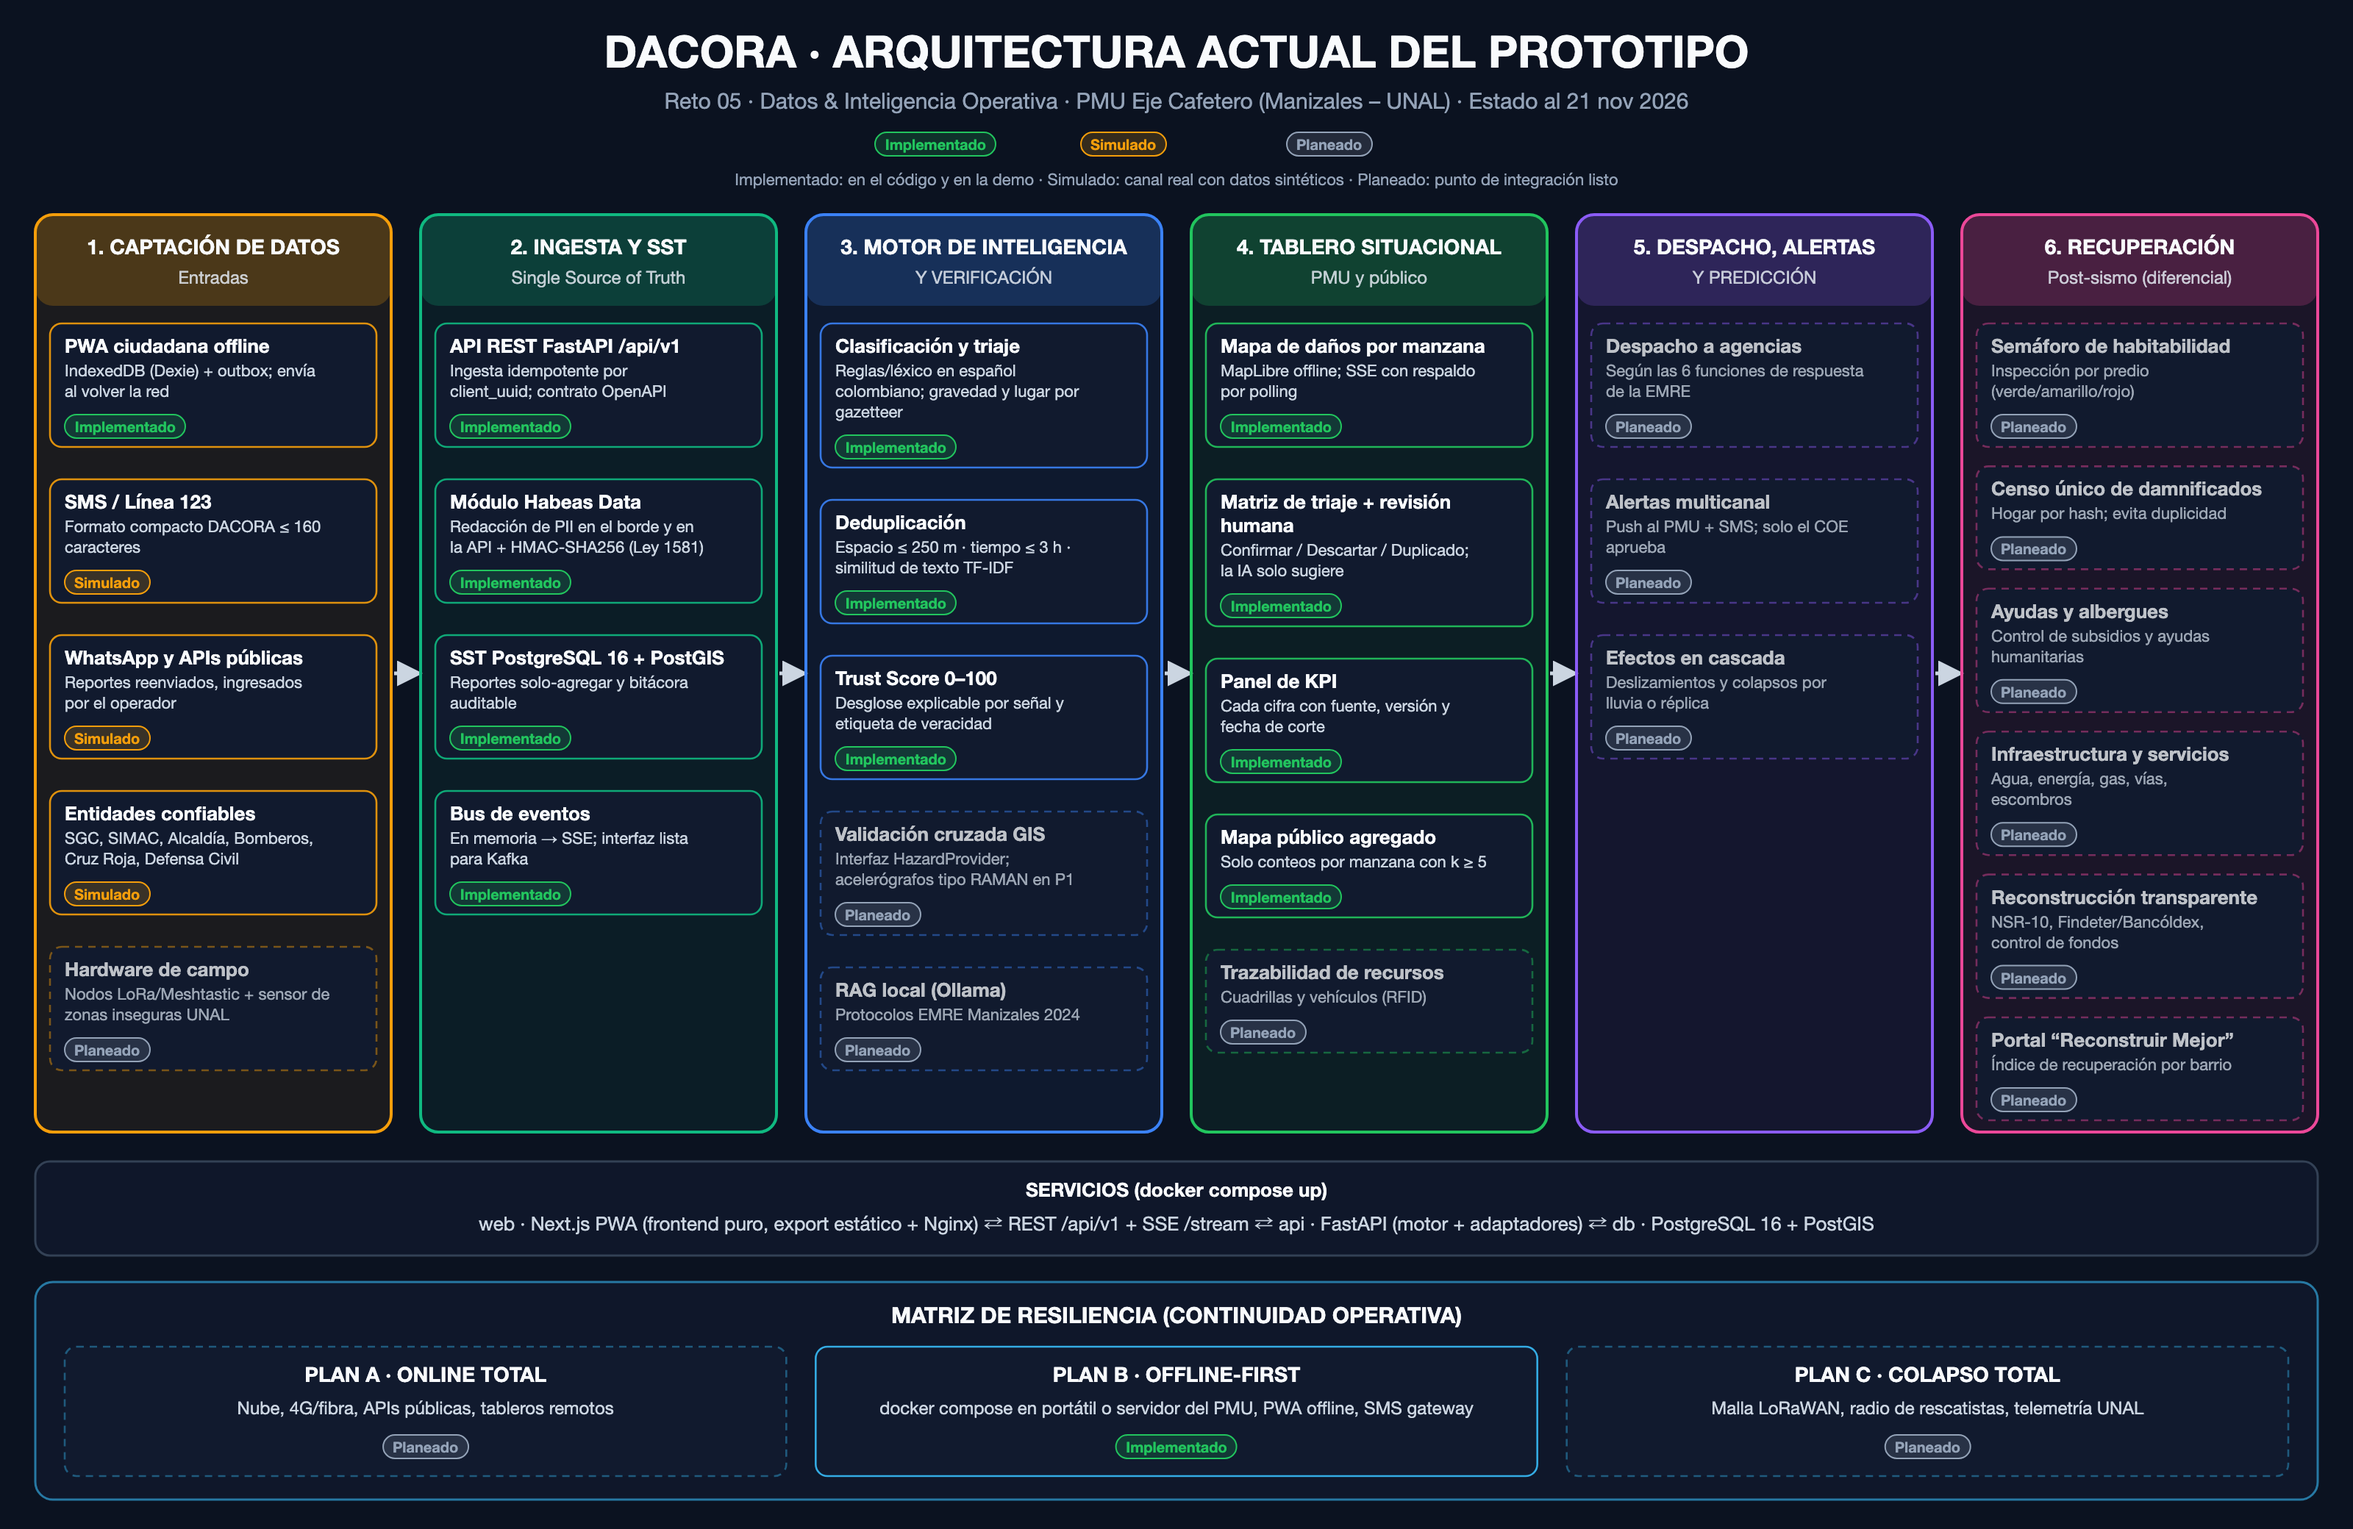
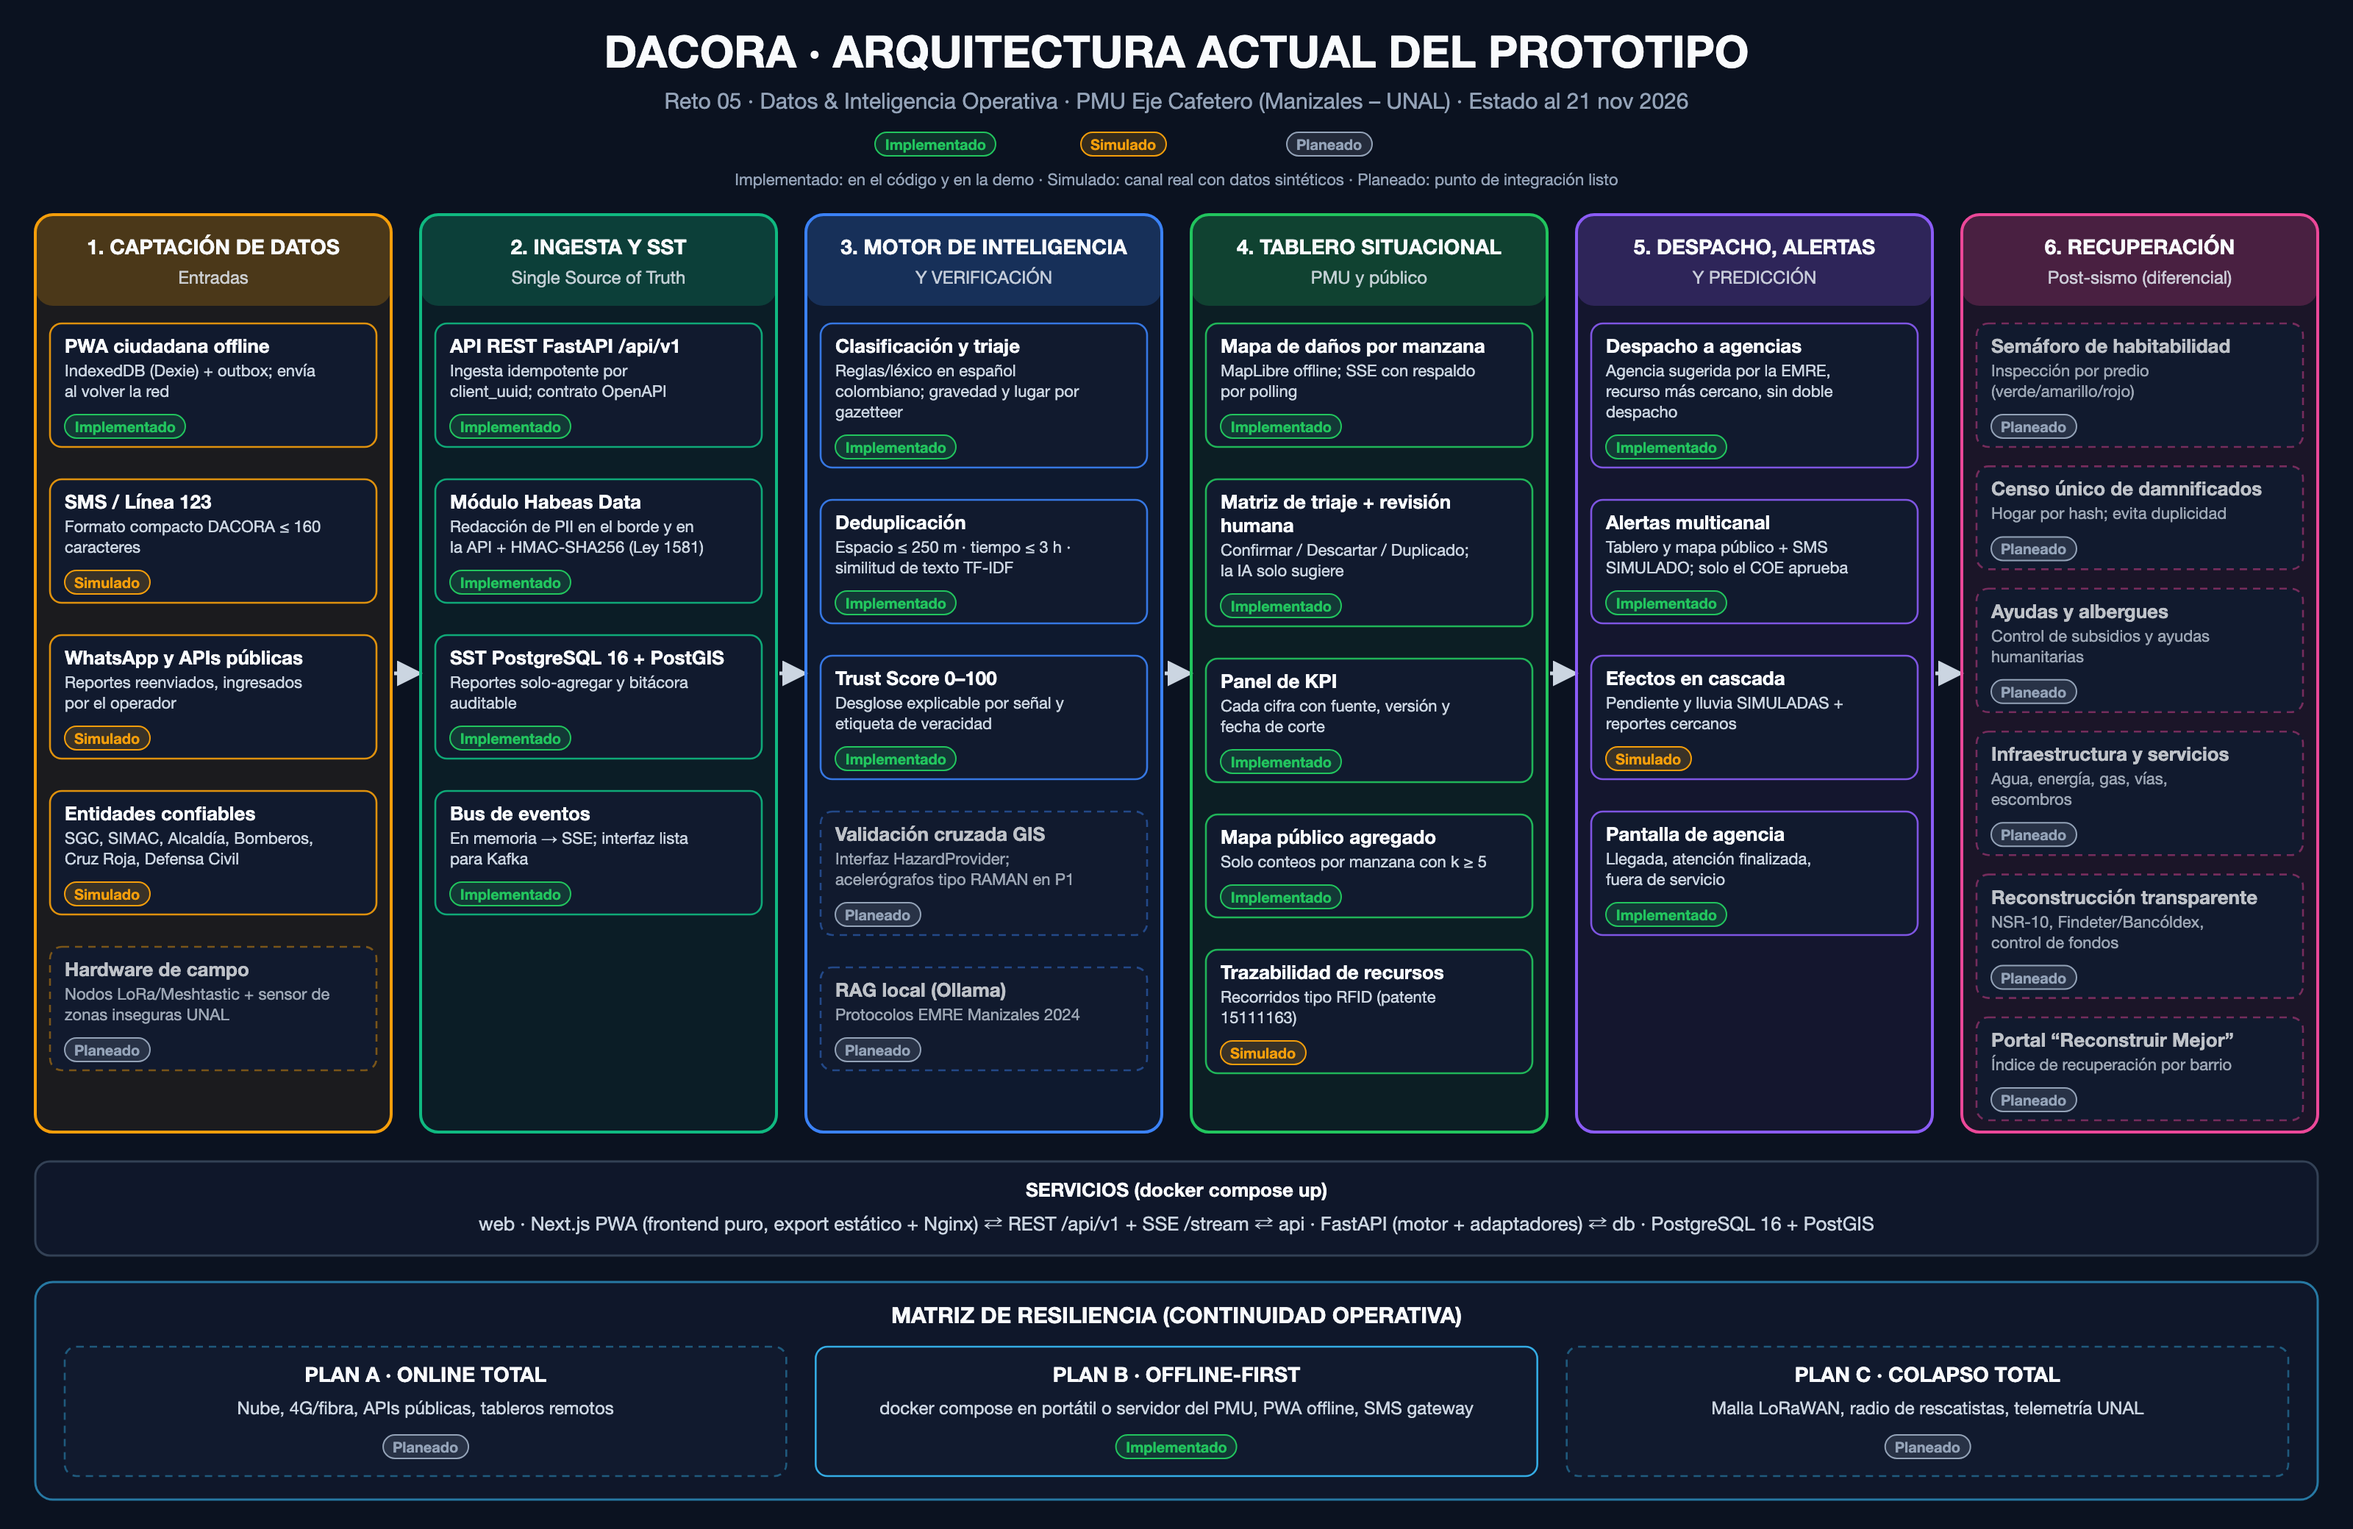
docs: mark dispatch, alerts and cascade as built in architecture diagram

Changed region(s): [[0.6562, 0.2188, 0.8125, 0.625], [0.5, 0.625, 0.625, 0.7188]]

diff --git a/scripts/generate_architecture_diagram.py b/scripts/generate_architecture_diagram.py
@@ -1,0 +1,305 @@
+"""Genera docs/arquitectura_actual.svg: arquitectura actual de Dacora con el estado de cada pieza.
+
+Uso:
+    python scripts/generate_architecture_diagram.py docs/arquitectura_actual.svg
+    # PNG (2x) con Chrome sin interfaz:
+    "/Applications/Google Chrome.app/Contents/MacOS/Google Chrome" --headless \
+      --hide-scrollbars --force-device-scale-factor=2 --window-size=1600,1040 \
+      --screenshot=docs/arquitectura_actual.png "file://$PWD/docs/arquitectura_actual.svg"
+"""
+
+import sys
+import textwrap
+from html import escape
+
+OUT = sys.argv[1] if len(sys.argv) > 1 else "docs/arquitectura_actual.svg"
+W, H = 1600, 1040
+
+IMPL, SIM, PLAN = "impl", "sim", "plan"
+BADGE = {
+    IMPL: ("Implementado", "#22c55e"),
+    SIM: ("Simulado", "#f59e0b"),
+    PLAN: ("Planeado", "#94a3b8"),
+}
+
+COLUMNS = [
+    (
+        "1. CAPTACIÓN DE DATOS",
+        "Entradas",
+        "#f59e0b",
+        [
+            ("PWA ciudadana offline", "IndexedDB (Dexie) + outbox; envía al volver la red", IMPL),
+            ("SMS / Línea 123", "Formato compacto DACORA ≤ 160 caracteres", SIM),
+            ("WhatsApp y APIs públicas", "Reportes reenviados, ingresados por el operador", SIM),
+            (
+                "Entidades confiables",
+                "SGC, SIMAC, Alcaldía, Bomberos, Cruz Roja, Defensa Civil",
+                SIM,
+            ),
+            ("Hardware de campo", "Nodos LoRa/Meshtastic + sensor de zonas inseguras UNAL", PLAN),
+        ],
+    ),
+    (
+        "2. INGESTA Y SST",
+        "Single Source of Truth",
+        "#10b981",
+        [
+            (
+                "API REST FastAPI /api/v1",
+                "Ingesta idempotente por client_uuid; contrato OpenAPI",
+                IMPL,
+            ),
+            (
+                "Módulo Habeas Data",
+                "Redacción de PII en el borde y en la API + HMAC-SHA256 (Ley 1581)",
+                IMPL,
+            ),
+            (
+                "SST PostgreSQL 16 + PostGIS",
+                "Reportes solo-agregar y bitácora auditable",
+                IMPL,
+            ),
+            ("Bus de eventos", "En memoria → SSE; interfaz lista para Kafka", IMPL),
+        ],
+    ),
+    (
+        "3. MOTOR DE INTELIGENCIA",
+        "Y VERIFICACIÓN",
+        "#3b82f6",
+        [
+            (
+                "Clasificación y triaje",
+                "Reglas/léxico en español colombiano; gravedad y lugar por gazetteer",
+                IMPL,
+            ),
+            (
+                "Deduplicación",
+                "Espacio ≤ 250 m · tiempo ≤ 3 h · similitud de texto TF-IDF",
+                IMPL,
+            ),
+            ("Trust Score 0–100", "Desglose explicable por señal y etiqueta de veracidad", IMPL),
+            (
+                "Validación cruzada GIS",
+                "Interfaz HazardProvider; acelerógrafos tipo RAMAN en P1",
+                PLAN,
+            ),
+            ("RAG local (Ollama)", "Protocolos EMRE Manizales 2024", PLAN),
+        ],
+    ),
+    (
+        "4. TABLERO SITUACIONAL",
+        "PMU y público",
+        "#22c55e",
+        [
+            ("Mapa de daños por manzana", "MapLibre offline; SSE con respaldo por polling", IMPL),
+            (
+                "Matriz de triaje + revisión humana",
+                "Confirmar / Descartar / Duplicado; la IA solo sugiere",
+                IMPL,
+            ),
+            ("Panel de KPI", "Cada cifra con fuente, versión y fecha de corte", IMPL),
+            ("Mapa público agregado", "Solo conteos por manzana con k ≥ 5", IMPL),
+            ("Trazabilidad de recursos", "Recorridos tipo RFID (patente 15111163)", SIM),
+        ],
+    ),
+    (
+        "5. DESPACHO, ALERTAS",
+        "Y PREDICCIÓN",
+        "#8b5cf6",
+        [
+            (
+                "Despacho a agencias",
+                "Agencia sugerida por la EMRE, recurso más cercano, sin doble despacho",
+                IMPL,
+            ),
+            (
+                "Alertas multicanal",
+                "Tablero y mapa público + SMS SIMULADO; solo el COE aprueba",
+                IMPL,
+            ),
+            ("Efectos en cascada", "Pendiente y lluvia SIMULADAS + reportes cercanos", SIM),
+            ("Pantalla de agencia", "Llegada, atención finalizada, fuera de servicio", IMPL),
+        ],
+    ),
+    (
+        "6. RECUPERACIÓN",
+        "Post-sismo (diferencial)",
+        "#ec4899",
+        [
+            ("Semáforo de habitabilidad", "Inspección por predio (verde/amarillo/rojo)", PLAN),
+            ("Censo único de damnificados", "Hogar por hash; evita duplicidad", PLAN),
+            ("Ayudas y albergues", "Control de subsidios y ayudas humanitarias", PLAN),
+            ("Infraestructura y servicios", "Agua, energía, gas, vías, escombros", PLAN),
+            ("Reconstrucción transparente", "NSR-10, Findeter/Bancóldex, control de fondos", PLAN),
+            ("Portal “Reconstruir Mejor”", "Índice de recuperación por barrio", PLAN),
+        ],
+    ),
+]
+
+RESILIENCE = [
+    ("PLAN A · ONLINE TOTAL", "Nube, 4G/fibra, APIs públicas, tableros remotos", PLAN),
+    (
+        "PLAN B · OFFLINE-FIRST",
+        "docker compose en portátil o servidor del PMU, PWA offline, SMS gateway",
+        IMPL,
+    ),
+    ("PLAN C · COLAPSO TOTAL", "Malla LoRaWAN, radio de rescatistas, telemetría UNAL", PLAN),
+]
+
+BG, PANEL, TEXT, MUTED = "#0b1220", "#111a2e", "#e2e8f0", "#94a3b8"
+FONT = "'Helvetica Neue', Helvetica, Arial, sans-serif"
+
+out: list[str] = []
+
+
+def text(x, y, s, size=12, weight="normal", fill=TEXT, anchor="start", opacity=1.0):
+    out.append(
+        f'<text x="{x}" y="{y}" font-size="{size}" font-weight="{weight}" fill="{fill}" '
+        f'text-anchor="{anchor}" opacity="{opacity}">{escape(s)}</text>'
+    )
+
+
+def badge(x, y, kind):
+    label, color = BADGE[kind]
+    w = 8 + len(label) * 6.2
+    out.append(
+        f'<rect x="{x}" y="{y}" width="{w:.0f}" height="16" rx="8" fill="{color}" '
+        f'fill-opacity="0.18" stroke="{color}" stroke-width="1"/>'
+    )
+    text(x + w / 2, y + 12, label, size=10, weight="bold", fill=color, anchor="middle")
+
+
+out.append(
+    f'<svg xmlns="http://www.w3.org/2000/svg" width="{W}" height="{H}" viewBox="0 0 {W} {H}" '
+    f'font-family="{FONT}">'
+)
+out.append(
+    "<defs><marker id='arrow' viewBox='0 0 10 10' refX='8' refY='5' markerWidth='7' "
+    "markerHeight='7' orient='auto-start-reverse'><path d='M0,0 L10,5 L0,10 z' "
+    "fill='#cbd5e1'/></marker></defs>"
+)
+out.append(f'<rect width="{W}" height="{H}" fill="{BG}"/>')
+
+# Encabezado
+text(W / 2, 46, "DACORA · ARQUITECTURA ACTUAL DEL PROTOTIPO", 30, "bold", "#f8fafc", "middle")
+text(
+    W / 2,
+    74,
+    "Reto 05 · Datos & Inteligencia Operativa · PMU Eje Cafetero (Manizales – UNAL) "
+    "· Estado al 21 nov 2026",
+    15,
+    fill=MUTED,
+    anchor="middle",
+)
+# Leyenda
+lx = W / 2 - 205
+for i, kind in enumerate((IMPL, SIM, PLAN)):
+    badge(lx + i * 140, 90, kind)
+text(
+    W / 2,
+    126,
+    "Implementado: en el código y en la demo · Simulado: canal real con datos sintéticos "
+    "· Planeado: punto de integración listo",
+    11,
+    fill=MUTED,
+    anchor="middle",
+)
+
+# Columnas
+X0, GAP, COLW = 24, 20, (W - 48 - 5 * 20) / 6
+Y0, Y1 = 146, 770
+HEAD = 62
+for ci, (title, subtitle, color, cards) in enumerate(COLUMNS):
+    x = X0 + ci * (COLW + GAP)
+    out.append(
+        f'<rect x="{x}" y="{Y0}" width="{COLW}" height="{Y1 - Y0}" rx="12" fill="{color}" '
+        f'fill-opacity="0.07" stroke="{color}" stroke-width="2"/>'
+    )
+    out.append(
+        f'<rect x="{x}" y="{Y0}" width="{COLW}" height="{HEAD}" rx="12" fill="{color}" '
+        f'fill-opacity="0.22"/>'
+    )
+    text(x + COLW / 2, Y0 + 27, title, 14, "bold", "#f8fafc", "middle")
+    text(x + COLW / 2, Y0 + 47, subtitle, 12, fill=TEXT, anchor="middle", opacity=0.85)
+
+    # Tarjetas
+    inner_x, inner_w = x + 10, COLW - 20
+    laid = []
+    for ctitle, desc, kind in cards:
+        tl = textwrap.wrap(ctitle, 27)
+        dl = textwrap.wrap(desc, 34)
+        h = 14 + len(tl) * 16 + len(dl) * 14 + 26
+        laid.append((tl, dl, kind, h))
+    avail = Y1 - Y0 - HEAD - 20
+    total = sum(h for *_, h in laid)
+    gap = min(22, (avail - total) / max(1, len(laid) - 1)) if len(laid) > 1 else 0
+    cy = Y0 + HEAD + 12
+    for tl, dl, kind, h in laid:
+        dash = ' stroke-dasharray="5 4"' if kind == PLAN else ""
+        op = 0.6 if kind == PLAN else 1.0
+        out.append(
+            f'<rect x="{inner_x}" y="{cy}" width="{inner_w}" height="{h}" rx="8" fill="{PANEL}" '
+            f'stroke="{color}" stroke-opacity="{0.45 if kind == PLAN else 0.9}" '
+            f'stroke-width="1.3"{dash}/>'
+        )
+        ty = cy + 20
+        for line in tl:
+            text(inner_x + 10, ty, line, 13, "bold", "#f8fafc", opacity=op + 0.15 if op < 1 else 1)
+            ty += 16
+        for line in dl:
+            text(inner_x + 10, ty, line, 11, fill="#cbd5e1", opacity=op + 0.15 if op < 1 else 1)
+            ty += 14
+        badge(inner_x + 10, cy + h - 22, kind)
+        cy += h + gap
+
+    if ci < 5:
+        ax = x + COLW + 2
+        ay = (Y0 + Y1) / 2
+        out.append(
+            f'<line x1="{ax}" y1="{ay}" x2="{ax + GAP - 4}" y2="{ay}" stroke="#cbd5e1" '
+            f'stroke-width="2.5" marker-end="url(#arrow)"/>'
+        )
+
+# Servicios
+SY = 790
+out.append(
+    f'<rect x="24" y="{SY}" width="{W - 48}" height="64" rx="10" fill="#0f172a" '
+    f'stroke="#334155" stroke-width="1.5"/>'
+)
+text(W / 2, SY + 24, "SERVICIOS (docker compose up)", 13, "bold", "#f8fafc", "middle")
+text(
+    W / 2,
+    SY + 47,
+    "web · Next.js PWA (frontend puro, export estático + Nginx)   ⇄   REST /api/v1 + SSE /stream"
+    "   ⇄   api · FastAPI (motor + adaptadores)   ⇄   db · PostgreSQL 16 + PostGIS",
+    13,
+    fill="#cbd5e1",
+    anchor="middle",
+)
+
+# Resiliencia
+RY = 872
+out.append(
+    f'<rect x="24" y="{RY}" width="{W - 48}" height="148" rx="12" fill="#0f172a" '
+    f'stroke="#38bdf8" stroke-opacity="0.6" stroke-width="1.5"/>'
+)
+text(
+    W / 2, RY + 28, "MATRIZ DE RESILIENCIA (CONTINUIDAD OPERATIVA)", 15, "bold", "#f8fafc", "middle"
+)
+pw = (W - 48 - 40 - 2 * 20) / 3
+for i, (ptitle, pdesc, kind) in enumerate(RESILIENCE):
+    px = 44 + i * (pw + 20)
+    dash = ' stroke-dasharray="5 4"' if kind == PLAN else ""
+    out.append(
+        f'<rect x="{px}" y="{RY + 44}" width="{pw}" height="88" rx="8" fill="{PANEL}" '
+        f'stroke="#38bdf8" stroke-opacity="{0.4 if kind == PLAN else 0.9}" '
+        f'stroke-width="1.3"{dash}/>'
+    )
+    text(px + pw / 2, RY + 68, ptitle, 14, "bold", "#f8fafc", "middle")
+    text(px + pw / 2, RY + 90, pdesc, 12, fill="#cbd5e1", anchor="middle")
+    label, _ = BADGE[kind]
+    badge(px + pw / 2 - (8 + len(label) * 6.2) / 2, RY + 104, kind)
+
+out.append("</svg>")
+with open(OUT, "w", encoding="utf-8") as f:
+    f.write("\n".join(out) + "\n")

diff --git a/specs/002-dispatch-alerts-prediction/tasks.md b/specs/002-dispatch-alerts-prediction/tasks.md
@@ -177,7 +177,7 @@ precargada.
 - [ ] T063 [P] Agregar `app.core.dispatch`, `app.core.alerts` y `app.core.cascade` a los módulos con mypy estricto en `services/api/pyproject.toml` y corregir lo que reporte
 - [X] T064 [P] Documentar las pantallas `/agencia/` y la bandeja del COE con sus tokens (`coe-demo`, `agencia-demo`) en `README.md`
 - [X] T065 [P] Agregar al guion los pasos de despacho, recorrido, lluvia, alerta preventiva, aprobación del COE y aviso en el mapa público (≤ 2 min, SC-009) en `docs/guion_demo.md`
-- [ ] T066 [P] Mover el generador del diagrama a `scripts/generate_architecture_diagram.py`, marcar el bloque 5 y la trazabilidad de recursos como "Implementado" y regenerar `docs/arquitectura_actual.svg` y `docs/arquitectura_actual.png`
+- [X] T066 [P] Mover el generador del diagrama a `scripts/generate_architecture_diagram.py`, marcar el bloque 5 y la trazabilidad de recursos como "Implementado" y regenerar `docs/arquitectura_actual.svg` y `docs/arquitectura_actual.png`
 - [ ] T067 Ejecutar [quickstart.md](quickstart.md) completo desde `docker compose up` con la base vacía, más `ruff`, `black --check`, `mypy`, `pytest`, `npm run typecheck`, `npm run lint` y `npm test`, y registrar el resultado en `specs/002-dispatch-alerts-prediction/quickstart.md`
 
 ---
